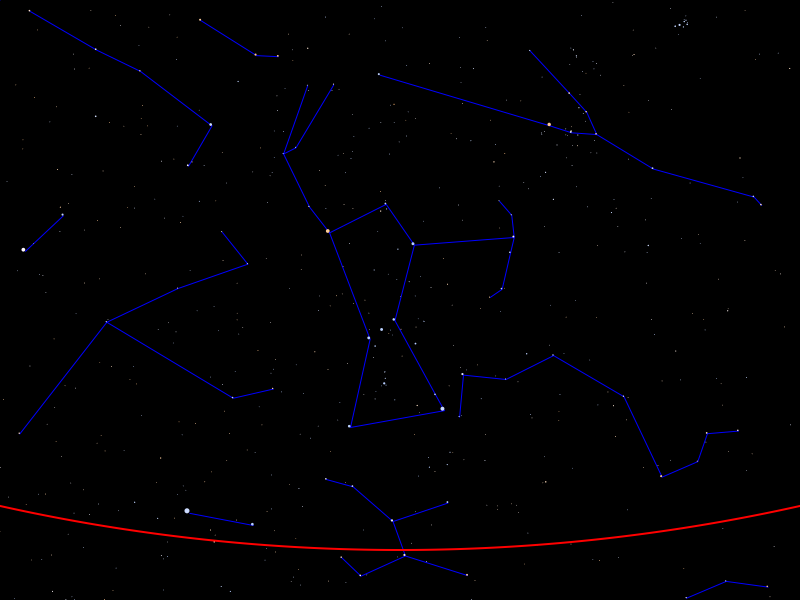
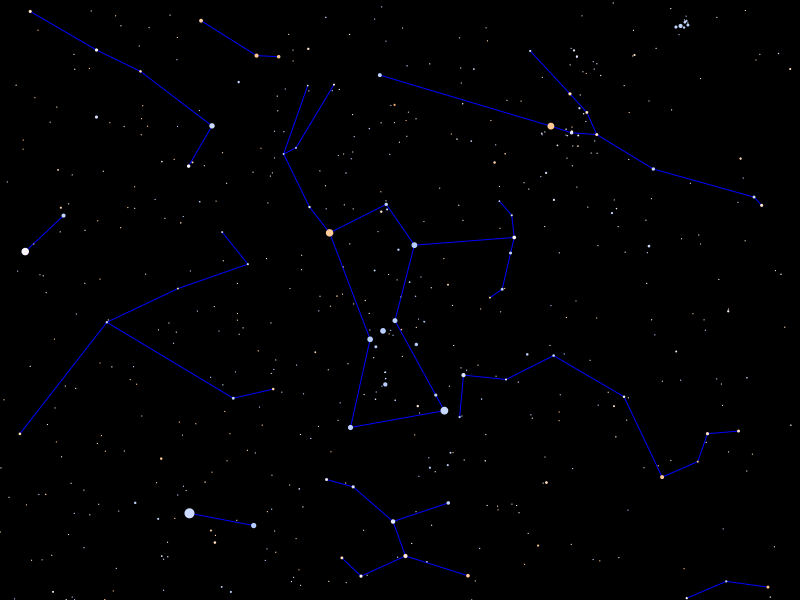
drawHorizon

diff --git a/src/ch/epfl/rigel/gui/SkyCanvasPainter.java b/src/ch/epfl/rigel/gui/SkyCanvasPainter.java
@@ -9,9 +9,11 @@ import ch.epfl.rigel.math.Angle;
 import ch.epfl.rigel.math.ClosedInterval;
 import javafx.geometry.Bounds;
 import javafx.geometry.Point2D;
+import javafx.geometry.VPos;
 import javafx.scene.canvas.Canvas;
 import javafx.scene.canvas.GraphicsContext;
 import javafx.scene.paint.Color;
+import javafx.scene.text.TextAlignment;
 import javafx.scene.transform.Transform;
 
 import java.util.List;
@@ -31,6 +33,7 @@ public final class SkyCanvasPainter {
 
     // The diameter of the disc of a celestial object with an angular size of 0.5 degrees.
     private static final double DIAMETER = 2.0 * Math.tan(Angle.ofDeg(0.5) / 4.0);
+
 
     /**
      * Constructs a painter of the observed sky.
@@ -74,7 +77,7 @@ public final class SkyCanvasPainter {
                     starCanvasPositions[index * 2], starCanvasPositions[index * 2 + 1]);
 
             // The diameter of the image of the star
-            double starCanvasDiameter = PlaneToCanvas.applyToDistance(diameterForMagnitude(s), planeToCanvas);
+            double starCanvasDiameter = 2.0 * PlaneToCanvas.applyToDistance(diameterForMagnitude(s), planeToCanvas);
 
             //System.out.println(starCanvasPos);
             // Draws and colors the star according to its color temperature
@@ -103,7 +106,7 @@ public final class SkyCanvasPainter {
         int index = 0;
         for (Planet p : planets) {
             // The diameter of the image of the planet
-            double planetCanvasDiameter = PlaneToCanvas.applyToDistance(diameterForMagnitude(p), planeToCanvas);
+            double planetCanvasDiameter = 2.0 * PlaneToCanvas.applyToDistance(diameterForMagnitude(p), planeToCanvas);
 
             CartesianCoordinates planetCanvasPos = CartesianCoordinates.of(
                     planetCanvasPositions[index * 2], planetCanvasPositions[index * 2 + 1]);
@@ -185,21 +188,43 @@ public final class SkyCanvasPainter {
     void drawHorizon(StereographicProjection projection, Transform planeToCanvas) {
         HorizontalCoordinates hor = HorizontalCoordinates.ofDeg(0, 0);
 
-        // x : 800
-        // y :  600
-        System.out.println(PlaneToCanvas.applyToPoint(projection.circleCenterForParallel(hor), planeToCanvas));
-
         double canvasRadius = PlaneToCanvas.applyToDistance(projection.circleRadiusForParallel(hor), planeToCanvas);
-        CartesianCoordinates center = CartesianCoordinates.of(400 + canvasRadius / 2.0,550);
-        //PlaneToCanvas.applyToPoint(projection.circleCenterForParallel(hor), planeToCanvas);
+        CartesianCoordinates center = PlaneToCanvas.applyToPoint(projection.circleCenterForParallel(hor), planeToCanvas);
 
-        System.out.println("Center : " + center + ", radius : " + canvasRadius);
+        CartesianCoordinates horizon = CartesianCoordinates.of(center.x(), center.y() - canvasRadius);
+        double altUnderHorizon = Angle.ofDeg(projection.inverseApply(horizon).altDeg() - 0.5);
+
+        HorizontalCoordinates south = HorizontalCoordinates.ofDeg(180, altUnderHorizon);
+        drawCardinalPoints(south, projection, planeToCanvas);
+
+        HorizontalCoordinates southWest = HorizontalCoordinates.ofDeg(225, altUnderHorizon);
+        drawCardinalPoints(southWest, projection, planeToCanvas);
+
+        HorizontalCoordinates west = HorizontalCoordinates.ofDeg(270, altUnderHorizon);
+        drawCardinalPoints(west, projection, planeToCanvas);
+
+        HorizontalCoordinates northWest = HorizontalCoordinates.ofDeg(315, altUnderHorizon);
+        drawCardinalPoints(northWest, projection, planeToCanvas);
+
+        HorizontalCoordinates north = HorizontalCoordinates.ofDeg(0, altUnderHorizon);
+        drawCardinalPoints(north, projection, planeToCanvas);
+
+        HorizontalCoordinates northEast = HorizontalCoordinates.ofDeg(45, altUnderHorizon);
+        drawCardinalPoints(northEast, projection, planeToCanvas);
+
+        HorizontalCoordinates east = HorizontalCoordinates.ofDeg(90, altUnderHorizon);
+        drawCardinalPoints(east, projection, planeToCanvas);
+
+        HorizontalCoordinates southEast = HorizontalCoordinates.ofDeg(135, altUnderHorizon);
+        drawCardinalPoints(southEast, projection, planeToCanvas);
+
+
+
 
         ctx.setLineWidth(2.0);
         ctx.setStroke(Color.RED);
 
-        ctx.strokeOval(center.x() - canvasRadius, center.y() - canvasRadius,  canvasRadius, canvasRadius);
-
+        ctx.strokeOval(center.x() - canvasRadius, center.y() - canvasRadius,  2.0 * canvasRadius, 2.0 * canvasRadius);
     }
 
     /**
@@ -253,7 +278,7 @@ public final class SkyCanvasPainter {
      */
     private void drawCircle(CartesianCoordinates upperLeftBound, double diameter) {
         ctx.fillOval(upperLeftBound.x() - diameter / 2.0, upperLeftBound.y() - diameter / 2.0,
-                diameter / 2.0, diameter / 2.0);
+                diameter, diameter);
     }
 
     /**
@@ -270,5 +295,13 @@ public final class SkyCanvasPainter {
         // The size factor (between 10% and 95% of the diameter of an object whose angular size is 0.5 degrees)
         double sizeFactor = (99.0 - 17.0 * clippedMagnitude) / 140.0;
         return sizeFactor * DIAMETER;
+    }
+
+    private void drawCardinalPoints(HorizontalCoordinates hor, StereographicProjection projection, Transform planeToCanvas){
+        ctx.setFill(Color.RED);
+        ctx.setTextAlign(TextAlignment.CENTER);
+        ctx.setTextBaseline(VPos.TOP);
+        CartesianCoordinates cartesianPos = PlaneToCanvas.applyToPoint(projection.apply(hor), planeToCanvas);
+        ctx.fillText(hor.azOctantName("N","E","S","W"), cartesianPos.x(), cartesianPos.y());
     }
 }

diff --git a/src/ch/epfl/rigel/coordinates/PlaneToCanvas.java b/src/ch/epfl/rigel/coordinates/PlaneToCanvas.java
@@ -47,7 +47,7 @@ public final class PlaneToCanvas {
 
         // The positions of the images of the celestial objects
         double[] canvasPositions = new double[cartesianPositions.length];
-        System.arraycopy(transformedPositions, 0, canvasPositions,0, cartesianPositions.length / 2);
+        System.arraycopy(transformedPositions, 0, canvasPositions,0, transformedPositions.length);
 
         return canvasPositions;
     }
@@ -66,7 +66,7 @@ public final class PlaneToCanvas {
         Transform concatenation = concatenation(planeToCanvas);
         Point2D canvasVector = concatenation.deltaTransform(x, 0);
 
-        return 2.0 * canvasVector.magnitude(); // The magnitude of the vector
+        return canvasVector.magnitude(); // The magnitude of the vector
     }
 
     /**

diff --git a/test/ch/epfl/rigel/coordinates/PlaneToCanvasTest.java b/test/ch/epfl/rigel/coordinates/PlaneToCanvasTest.java
@@ -21,10 +21,11 @@ class PlaneToCanvasTest {
         CartesianCoordinates canvasPos = PlaneToCanvas.applyToPoint(cartesianPos, PLANE_TO_CANVAS);
 
         assertEquals(canvasPositions[0], canvasPos.x());
-        assertEquals(canvasPositions[1], cartesianPos.y());
+        assertEquals(canvasPositions[1], canvasPos.y());
     }
 
     @Test
     void applyToDistance() {
+        System.out.println(PlaneToCanvas.applyToDistance(1.0, PLANE_TO_CANVAS));
     }
 }

diff --git a/src/ch/epfl/rigel/gui/CanvasExample.java b/src/ch/epfl/rigel/gui/CanvasExample.java
@@ -24,7 +24,6 @@ public class CanvasExample extends Application
     {
         // Create the Canvas
         Canvas canvas = new Canvas(400, 200);
-        Bounds borders = canvas.getBoundsInLocal();
 
         // Get the graphics context of the canvas
         GraphicsContext ctx = canvas.getGraphicsContext2D();
